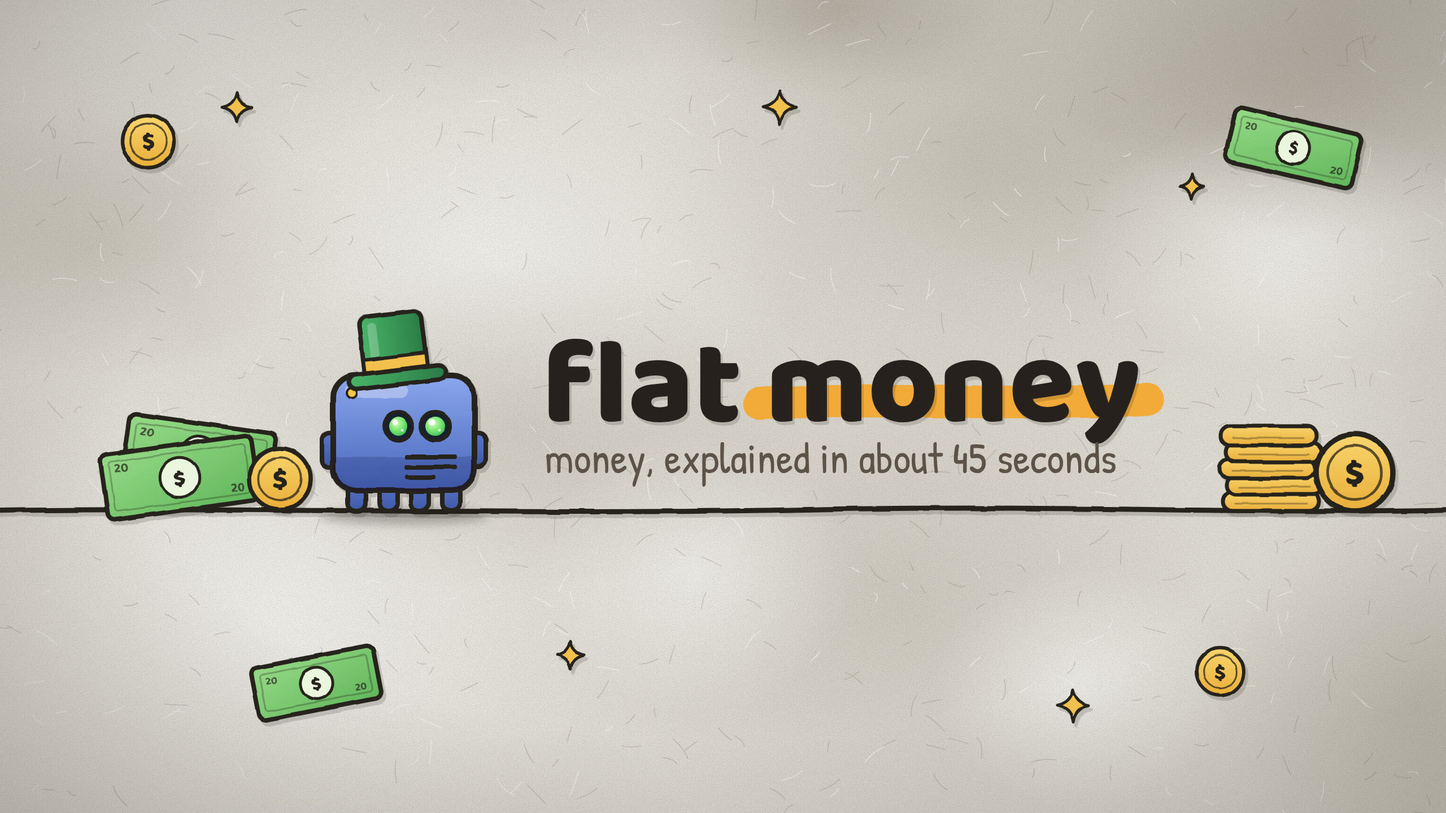
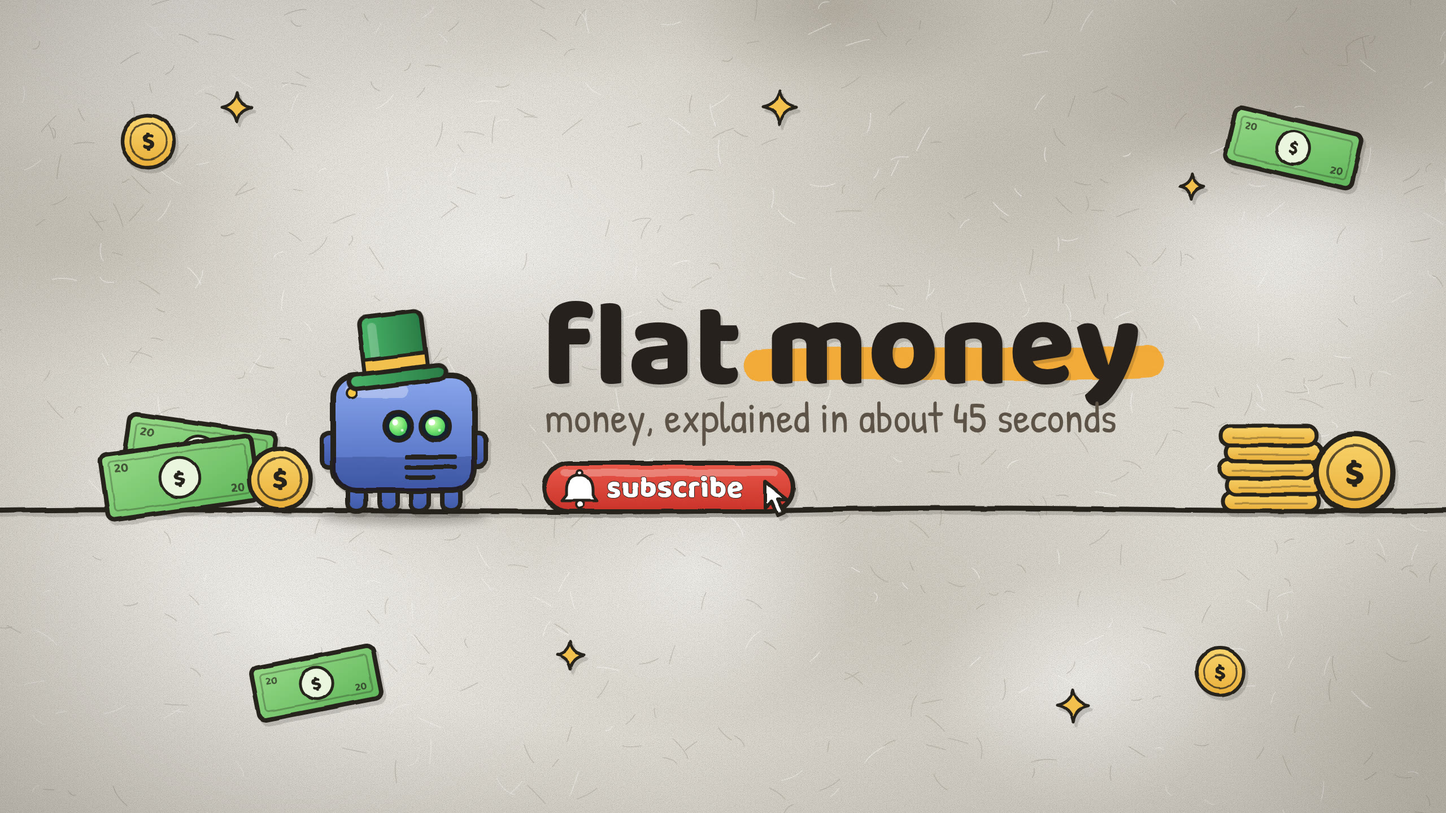
site 2026-11-12_14:34:31

Changed region(s): [[0.375, 0.375, 0.8125, 0.6562]]

diff --git a/index.html b/index.html
@@ -89,7 +89,7 @@ Subscribe if you&#x27;ve ever nodded along to a money conversation without reall
 <div class="vid"><h4><a href="https://raw.githubusercontent.com/Twarga/Farm_Videos/main/videofarm/jobs/every-money-habit-that-keeps-you-broke-explained/render/ch10.mp4">ch10</a></h4><p><span class="sz">5M</span> · <a href="https://raw.githubusercontent.com/Twarga/Farm_Videos/main/videofarm/jobs/every-money-habit-that-keeps-you-broke-explained/render/ch10.mp4">mp4</a></p><div class="frame"><video controls playsinline preload="none" src="https://raw.githubusercontent.com/Twarga/Farm_Videos/main/videofarm/jobs/every-money-habit-that-keeps-you-broke-explained/render/ch10.mp4"></video></div></div>
 <div class="vid"><h4><a href="https://raw.githubusercontent.com/Twarga/Farm_Videos/main/videofarm/jobs/every-money-habit-that-keeps-you-broke-explained/render/ch11.mp4">ch11</a></h4><p><span class="sz">4M</span> · <a href="https://raw.githubusercontent.com/Twarga/Farm_Videos/main/videofarm/jobs/every-money-habit-that-keeps-you-broke-explained/render/ch11.mp4">mp4</a></p><div class="frame"><video controls playsinline preload="none" src="https://raw.githubusercontent.com/Twarga/Farm_Videos/main/videofarm/jobs/every-money-habit-that-keeps-you-broke-explained/render/ch11.mp4"></video></div></div></div>
 <div class="panel" id="p-clips"><details><summary>hanoi-rats — 2 clips</summary><div class="vid"><h4><a href="https://raw.githubusercontent.com/Twarga/Farm_Videos/main/rickcklipsclone/production/hanoi-rats/out/final.mp4">final</a></h4><p><span class="sz">46M</span> · <a href="https://raw.githubusercontent.com/Twarga/Farm_Videos/main/rickcklipsclone/production/hanoi-rats/out/final.mp4">mp4</a></p><div class="frame"><video controls playsinline preload="none" src="https://raw.githubusercontent.com/Twarga/Farm_Videos/main/rickcklipsclone/production/hanoi-rats/out/final.mp4"></video></div></div><div class="vid"><h4><a href="https://raw.githubusercontent.com/Twarga/Farm_Videos/main/rickcklipsclone/production/hanoi-rats/out/final_quiet.mp4">final quiet</a></h4><p><span class="sz">46M</span> · <a href="https://raw.githubusercontent.com/Twarga/Farm_Videos/main/rickcklipsclone/production/hanoi-rats/out/final_quiet.mp4">mp4</a></p><div class="frame"><video controls playsinline preload="none" src="https://raw.githubusercontent.com/Twarga/Farm_Videos/main/rickcklipsclone/production/hanoi-rats/out/final_quiet.mp4"></video></div></div></details>
-<details><summary>plague-doctor — 1 clip</summary><div class="vid"><h4><a href="https://raw.githubusercontent.com/Twarga/Farm_Videos/main/rickcklipsclone/production/plague-doctor/out/final.mp4">final</a></h4><p><span class="sz">8M</span> · <a href="https://raw.githubusercontent.com/Twarga/Farm_Videos/main/rickcklipsclone/production/plague-doctor/out/final.mp4">mp4</a></p><div class="frame"><video controls playsinline preload="none" src="https://raw.githubusercontent.com/Twarga/Farm_Videos/main/rickcklipsclone/production/plague-doctor/out/final.mp4"></video></div></div></details>
+<details><summary>plague-doctor — 1 clip</summary><div class="vid"><h4><a href="https://raw.githubusercontent.com/Twarga/Farm_Videos/main/rickcklipsclone/production/plague-doctor/out/final.mp4">final</a></h4><p><span class="sz">14M</span> · <a href="https://raw.githubusercontent.com/Twarga/Farm_Videos/main/rickcklipsclone/production/plague-doctor/out/final.mp4">mp4</a></p><div class="frame"><video controls playsinline preload="none" src="https://raw.githubusercontent.com/Twarga/Farm_Videos/main/rickcklipsclone/production/plague-doctor/out/final.mp4"></video></div></div></details>
 <div class="vid"><h4><a href="https://raw.githubusercontent.com/Twarga/Farm_Videos/main/rickcklipsclone/final.mp4">final</a></h4><p><span class="sz">46M</span> · <a href="https://raw.githubusercontent.com/Twarga/Farm_Videos/main/rickcklipsclone/final.mp4">mp4</a></p><div class="frame"><video controls playsinline preload="none" src="https://raw.githubusercontent.com/Twarga/Farm_Videos/main/rickcklipsclone/final.mp4"></video></div></div></div>
 <div class="panel" id="p-oday"><div class="vid"><h4><a href="https://raw.githubusercontent.com/Twarga/Farm_Videos/main/oday/factory/jobs/2026-11-11-all-types-of-asses/final/clips/seg_000.mp4">seg 000</a></h4><p><span class="sz">834K</span> · <a href="https://raw.githubusercontent.com/Twarga/Farm_Videos/main/oday/factory/jobs/2026-11-11-all-types-of-asses/final/clips/seg_000.mp4">mp4</a></p><div class="frame"><video controls playsinline preload="none" src="https://raw.githubusercontent.com/Twarga/Farm_Videos/main/oday/factory/jobs/2026-11-11-all-types-of-asses/final/clips/seg_000.mp4"></video></div></div>
 <div class="vid"><h4><a href="https://raw.githubusercontent.com/Twarga/Farm_Videos/main/oday/factory/jobs/2026-11-11-all-types-of-asses/final/clips/seg_001.mp4">seg 001</a></h4><p><span class="sz">438K</span> · <a href="https://raw.githubusercontent.com/Twarga/Farm_Videos/main/oday/factory/jobs/2026-11-11-all-types-of-asses/final/clips/seg_001.mp4">mp4</a></p><div class="frame"><video controls playsinline preload="none" src="https://raw.githubusercontent.com/Twarga/Farm_Videos/main/oday/factory/jobs/2026-11-11-all-types-of-asses/final/clips/seg_001.mp4"></video></div></div>

diff --git a/brand/src/build_brand.py b/brand/src/build_brand.py
@@ -134,6 +134,26 @@ def sparkle(cx, cy, r, fill="#f2c14e"):
             f'stroke="{INK}" stroke-width="5" stroke-linejoin="round"/>')
 
 
+def subscribe_pill(x, y):
+    w, h = 440, 86
+    bell = ('<path d="M0 -24 C-15 -24 -23 -12 -23 3 L-23 12 L-31 22 L31 22 L23 12 L23 3 C23 -12 15 -24 0 -24 Z" '
+            f'fill="#fff" stroke="{INK}" stroke-width="5" stroke-linejoin="round"/>'
+            f'<circle cx="0" cy="-28" r="5" fill="#fff" stroke="{INK}" stroke-width="4"/>'
+            f'<circle cx="0" cy="29" r="7" fill="#fff" stroke="{INK}" stroke-width="4"/>')
+    cursor = (f'<path d="M0 0 L0 46 L12 35 L22 58 L33 53 L23 31 L39 31 Z" fill="#fff" stroke="{INK}" '
+              f'stroke-width="6" stroke-linejoin="round"/>')
+    return (f'<g style="{SHADOW}"><g filter="url(#wob)">'
+            '<defs><linearGradient id="redG" x1="0" y1="0" x2="0" y2="1">'
+            '<stop offset="0" stop-color="#ea5a4a"/><stop offset="1" stop-color="#c9322a"/></linearGradient></defs>'
+            f'<rect x="{x}" y="{y}" width="{w}" height="{h}" rx="43" fill="url(#redG)" stroke="{INK}" stroke-width="8"/>'
+            f'<rect x="{x + 28}" y="{y + 11}" width="{w - 56}" height="13" rx="6.5" fill="#fff" opacity=".28"/>'
+            f'<g transform="translate({x + 62} {y + h / 2 + 2})">{bell}</g>'
+            f'<text x="{x + 110}" y="{y + 60}" font-family="Baloo 2" font-weight="800" font-size="54" fill="#fff" '
+            f'stroke="{INK}" stroke-width="2" paint-order="stroke">subscribe</text>'
+            f'<g transform="translate({x + w - 50} {y + h * 0.4:.0f})">{cursor}</g>'
+            '</g></g>')
+
+
 def paper(W, H, seed=5):
     rnd = random.Random(seed)
     parts = [f'<rect width="{W}" height="{H}" fill="#e0ddd5"/>']
@@ -207,9 +227,10 @@ html,body{{margin:0;background:#e0ddd5}} svg{{display:block}}
 {right}
 <g style="{SHADOW}"><use href="#robot" transform="translate(715 {gy})"/></g>
 <g id="hl" filter="url(#wob)"></g>
-<text id="word" x="960" y="745" font-family="Baloo 2" font-weight="800" font-size="190" fill="{INK}"
+<text id="word" x="960" y="678" font-family="Baloo 2" font-weight="800" font-size="190" fill="{INK}"
       style="filter:drop-shadow(4px 6px 0 rgba(38,33,28,.17))">flat money</text>
-<text x="964" y="838" font-family="Patrick Hand" font-size="76" fill="#5c5246">money, explained in about 45 seconds</text>
+<text x="964" y="766" font-family="Patrick Hand" font-size="76" fill="#5c5246">money, explained in about 45 seconds</text>
+{subscribe_pill(964, 820)}
 </svg>
 <script>
 Promise.all([document.fonts.load('800 190px "Baloo 2"'), document.fonts.load('76px "Patrick Hand"')]).then(()=>{{
@@ -218,7 +239,7 @@ Promise.all([document.fonts.load('800 190px "Baloo 2"'), document.fonts.load('76
   const fs=190*1060/t.getComputedTextLength();
   t.setAttribute('font-size',fs);
   const x0=t.getStartPositionOfChar(5).x, len=t.getSubStringLength(5,5);
-  const y=745-fs*0.16, th=fs*0.27;
+  const y=678-fs*0.16, th=fs*0.27;
   const p=document.createElementNS('http://www.w3.org/2000/svg','path');
   p.setAttribute('d',`M ${{x0-10}} ${{y+4}} C ${{x0+len*0.3}} ${{y-7}}, ${{x0+len*0.7}} ${{y+8}}, ${{x0+len+12}} ${{y-3}}`);
   p.setAttribute('stroke','#f4a62a'); p.setAttribute('stroke-opacity','.92');
